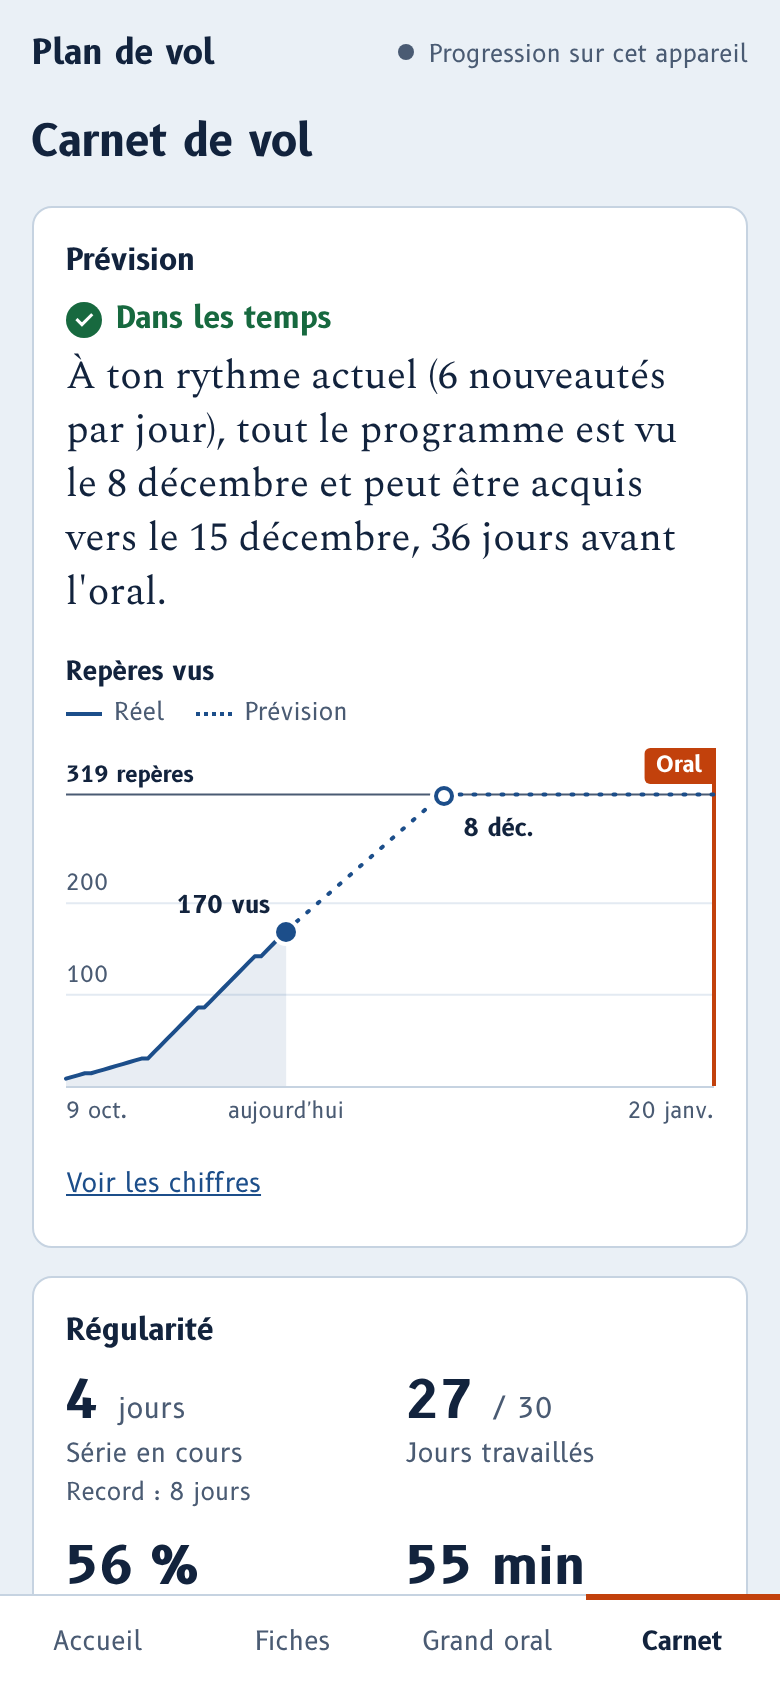
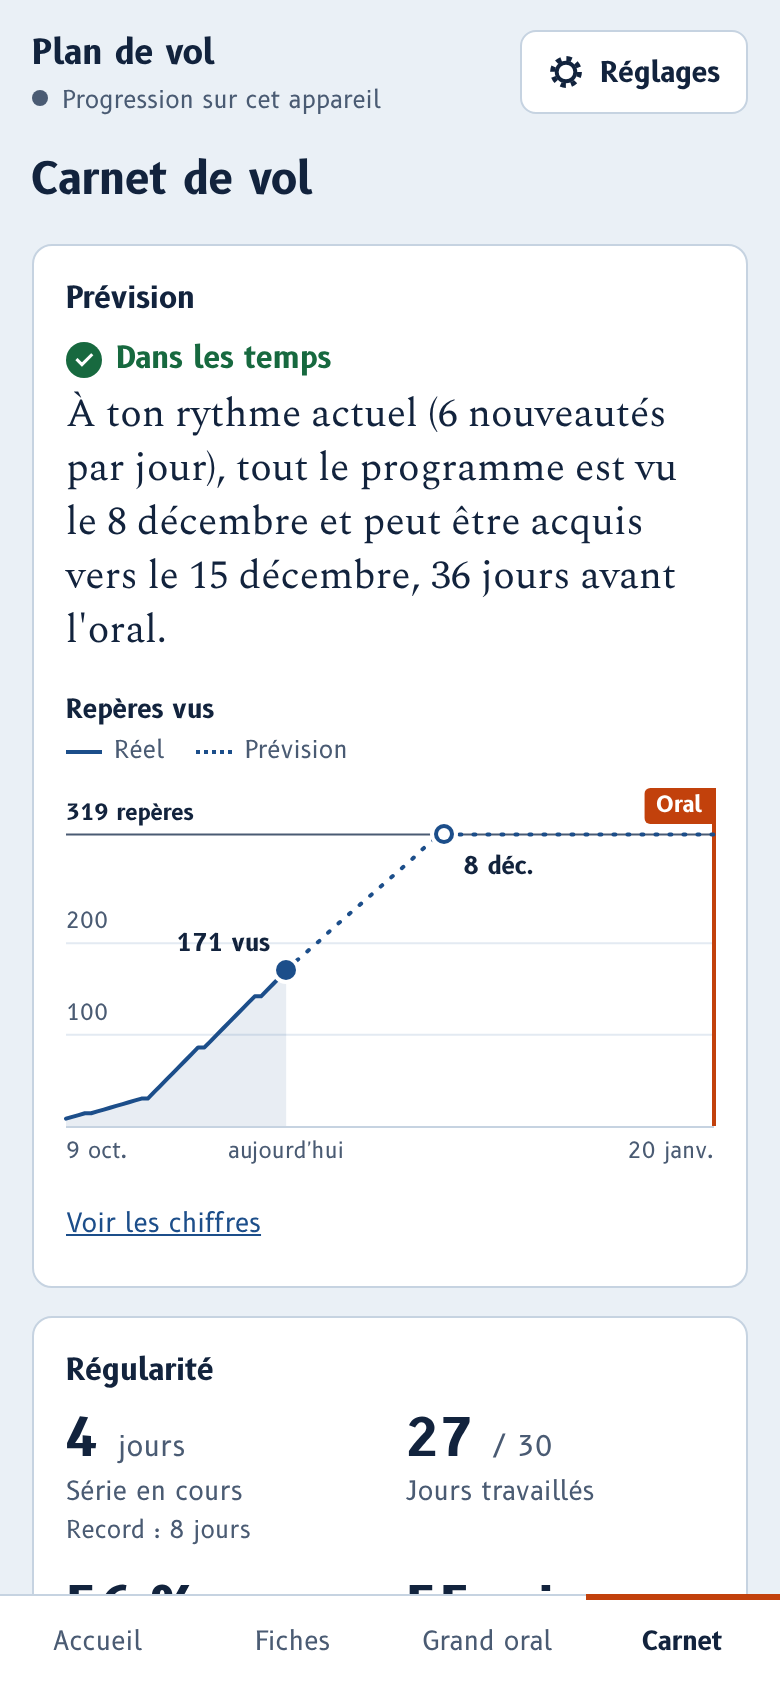
Version 1.3.0 : synchronisation par code en service, bouton Réglages, version visible
- config.js désigne la base qui garde les progressions chiffrées.
- En-tête : bouton « Réglages » explicite ; l'état de synchronisation passe sous le nom.
- Réglages : version installée, « Rechercher une mise à jour », raison en clair
  quand la synchronisation par code s'interrompt.
- L'accueil annonce la version après une mise à jour.
- Les tests n'appellent jamais le service réel.

Claude-Session: https://claude.ai/code/session_01CJPzr9oJVRXGoGWvM5jtrg

diff --git a/app.js b/app.js
@@ -6,7 +6,7 @@
   var LS = 'pdv.progression.v1';
   /* Dépôt qui reçoit les signalements d'erreur. À changer seulement si tu maintiens ta propre version des fiches. */
   var DEPOT = DATA.depot || 'JealousElf/plan-de-vol';
-  var VERSION_APP = '13 novembre 2026';
+  var VERSION_APP = '1.3.0', DATE_APP = '13 novembre 2026';
   var JOUR = 86400000;
   var IV = [0, 1, 2, 4, 8, 16, 32];
   var MOIS = ['janvier', 'février', 'mars', 'avril', 'mai', 'juin', 'juillet', 'août', 'septembre', 'octobre', 'novembre', 'décembre'];
@@ -163,12 +163,23 @@
       etat = s;
       var el = document.getElementById('sync'); if (el) { el.textContent = LIB[s]; el.setAttribute('data-s', s); }
       var d = document.getElementById('sync-detail'); if (d) d.textContent = LIB[s];
+      var m = document.getElementById('sync-motif'); if (m) m.textContent = raison();
+    }
+    /* En clair, pourquoi la synchronisation par code est interrompue (vide si tout va bien). */
+    function raison() {
+      if (etat !== 'off' || !motif) return '';
+      if (motif === '401' || motif === '403') return 'Le service refuse l\'accès : les règles de la base ne sont pas celles du guide.';
+      if (motif === '404') return 'Le service est introuvable : l\'adresse indiquée dans config.js n\'est pas la bonne.';
+      if (motif === 'format') return 'La copie en ligne vient d\'une version plus récente de l\'application : mets cet appareil à jour.';
+      if (motif === 'cle') return 'La copie en ligne est illisible avec ce code.';
+      if (motif === 'reseau') return 'Le service ne répond pas. Vérifie ta connexion : un nouvel essai partira à ta prochaine réponse.';
+      return 'Le service a répondu par une erreur (' + motif + '). Un nouvel essai partira à ta prochaine réponse.';
     }
     /* Hors de Claude, deux façons de relier ses appareils. Par code : la progression, chiffrée ici, part dans le service indiqué
        par config.js (git = { code, id, k, vu }). Par jeton : elle vit dans un gist privé du compte GitHub (git = { token, gist }). */
     var API = 'https://api.github.com', FICHIER = 'plan-de-vol-progression.json';
     var CODE = DATA.synchro, BASE = CODE && CODE.disponible() && /^https:\/\//.test(DATA.carnets || '') ? DATA.carnets : '';
-    var git = lireCfg(), enVol = false, encore = false, dernier = 0, ecoute = false;
+    var git = lireCfg(), enVol = false, encore = false, dernier = 0, ecoute = false, motif = '';
     function lireCfg() {
       try {
         var c = JSON.parse(window.localStorage.getItem(CFG) || 'null');
@@ -252,13 +263,14 @@
       }).then(function () {
         enVol = false;
         if (git !== moi) return;
-        dernier = Date.now(); dire('ok');
+        motif = ''; dernier = Date.now(); dire('ok');
         if (encore || sale) planifier();
       }).catch(function (e) {
         enVol = false;
         if (git !== moi) return;
         var s = e && e.status;
         sale = true;
+        motif = moi.code ? String(s || (e && e.name === 'OperationError' ? 'cle' : 'reseau')) : '';
         if (!moi.code && (s === 401 || s === 403)) dire('refus');
         else dire(window.navigator.onLine === false ? 'hors' : 'off');
       });
@@ -359,7 +371,7 @@
         }).catch(function () { /* pas de packs distants */ });
       } catch (e) { /* idem */ }
     }
-    return { init: init, pousser: pousser, vite: vite, etat: function () { return etat; }, activer: activer, relier: relier, couper: couper,
+    return { init: init, pousser: pousser, vite: vite, etat: function () { return etat; }, raison: raison, activer: activer, relier: relier, couper: couper,
       git: function () { return !!(git && git.token); },                 // relié par jeton GitHub
       code: function () { return git && git.code ? git.code : ''; },    // relié par code : le code, sinon ''
       parCode: function () { return !!BASE; } };                         // la synchronisation par code est-elle proposée ici ?
@@ -727,7 +739,9 @@
   function accueil() {
     var b = bilan(tous()), plan = planJour(), jr = joursRestants(), premiere = !Object.keys(P.cards).length && !P.diag;
     var pa = b.n ? 100 * b.acquis / b.n : 0, pc = b.n ? 100 * (b.acquis + b.cours) / b.n : 0;
-    var h = '<section class="cols vaste"><div class="pile"><div class="bloc"><h1 class="page-t">' + titreAccueil(jr) + '</h1>';
+    var h = '<section class="cols vaste"><div class="pile">';
+    if (S.msg) { h += '<p class="bravo" role="status">' + esc(S.msg) + '</p>'; S.msg = null; }
+    h += '<div class="bloc"><h1 class="page-t">' + titreAccueil(jr) + '</h1>';
     h += '<div class="piste espace' + (jr !== null && jr > 0 ? '' : ' sans-num') + '" role="img" aria-label="' + b.acquis + ' repères acquis, ' + b.cours + ' en cours, ' + b.neuf + ' à découvrir">' +
       '<span class="encours" style="width:' + pc.toFixed(1) + '%"></span><span class="acquis" style="width:' + pa.toFixed(1) + '%"></span>' +
       '<span class="seuil"></span><span class="axe"></span><span class="numero">' + (jr !== null && jr > 0 ? 'J-' + jr : '') + '</span></div>';
@@ -1281,7 +1295,7 @@
       } else {
         h += '<div class="rangee espace"><button class="btn" data-a="code-copier">Copier le code</button><button class="btn" data-a="couper-oui">Ne plus synchroniser cet appareil</button></div>';
       }
-      h += '<p class="note espace" id="code-msg" role="status"></p>';
+      h += '<p class="note espace" id="sync-motif" role="status">' + esc(Sync.raison()) + '</p><p class="note" id="code-msg" role="status"></p>';
     } else if (Sync.git()) {
       h += '<p class="note espace">Ta progression est enregistrée dans un fichier privé de ton compte GitHub. Elle suit sur chaque appareil où tu as collé le même jeton. Si GitHub refuse le jeton, arrête la synchronisation puis colle-en un nouveau.</p>' +
         '<button class="btn espace" data-a="sync-couper">Arrêter la synchronisation sur cet appareil</button>';
@@ -1298,7 +1312,8 @@
       h += '<p class="note espace">Ta progression est gardée sur cet appareil. Pour la retrouver sur ton téléphone et ton ordinateur, colle le même jeton GitHub sur chacun.</p>' + parJeton;
     }
     h += '</div>';
-    if (!CHEZ_CLAUDE) h += '<div class="bloc"><h2>Hors connexion</h2><p><b id="hors-detail">' + LIB_HORS[HORS.etat] + '</b></p><p class="note espace">Une fois la page ajoutée à l\'écran d\'accueil et ouverte une première fois avec du réseau, tout le contenu reste disponible sans connexion. Pour le vérifier : passe en mode avion, ferme l\'application, puis rouvre-la.</p></div>';
+    if (!CHEZ_CLAUDE) h += '<div class="bloc"><h2>Hors connexion</h2><p><b id="hors-detail">' + LIB_HORS[HORS.etat] + '</b></p><p class="note espace">Une fois la page ajoutée à l\'écran d\'accueil et ouverte une première fois avec du réseau, tout le contenu reste disponible sans connexion. Pour le vérifier : passe en mode avion, ferme l\'application, puis rouvre-la.</p>' +
+      '<p class="espace">Version installée : <b id="version">' + VERSION_APP + '</b></p><button class="btn espace" data-a="maj">Rechercher une mise à jour</button><p class="note espace" id="maj-msg" role="status"></p></div>';
     var sig = Object.keys(P.flags).filter(signale).filter(function (id) { return FACTS[id]; });
     h += '<div class="bloc"><h2>Fiches signalées</h2>' + (sig.length ? '<ul class="rates">' + sig.map(function (id) {
       return '<li><span class="d">' + esc(FACTS[id].d || FACTS[id].g || '') + '</span><span>' + esc(FACTS[id].t) + '</span></li>';
@@ -1308,7 +1323,7 @@
     if (S.raz) h += '<p class="alerte">Toute la progression sera effacée, sur tous tes appareils.</p><div class="rangee espace"><button class="btn danger" data-a="raz-oui">Effacer ma progression</button><button class="btn" data-a="raz-non">Annuler</button></div>';
     else h += '<button class="btn danger" data-a="raz">Effacer ma progression</button>';
     h += '</div><div class="bloc"><h2>À propos</h2><p class="note">Plan de vol est un projet libre et indépendant, sans lien avec le ministère des Armées ni avec une école. Les fiches ont été rédigées avec l\'aide d\'une IA ; les faits d\'actualité ont été recoupés en ligne à la date indiquée. Une erreur reste possible : signale-la.</p>' +
-      '<p class="note espace">Code sous licence MIT, fiches sous licence CC BY-SA 4.0. Version du ' + VERSION_APP + '.</p>' +
+      '<p class="note espace">Code sous licence MIT, fiches sous licence CC BY-SA 4.0. Version ' + VERSION_APP + ' du ' + DATE_APP + '.</p>' +
       '<a class="lien" href="https://github.com/' + esc(DEPOT) + '" target="_blank" rel="noopener">Code source, signalements et contributions</a>';
     return h + '</div></section>';
   }
@@ -1327,6 +1342,8 @@
     for (var i = 0; i < liens.length; i++) {
       if (!focus && liens[i].getAttribute('href') === '#' + p) liens[i].setAttribute('aria-current', 'page'); else liens[i].removeAttribute('aria-current');
     }
+    var br = document.getElementById('vers-reglages');
+    if (br) { if (!focus && p === 'reglages') br.setAttribute('aria-current', 'page'); else br.removeAttribute('aria-current'); }
     G.cacher();
     app.classList.toggle('arrive', !!S.haut);
     app.innerHTML = h;
@@ -1422,6 +1439,19 @@
       Sync.activer(v); rendre();
     },
     'sync-couper': function () { S.couper = false; Sync.couper(); rendre(); },
+    maj: function (b) {
+      var sw = window.navigator.serviceWorker, dit = function (t) { var m = document.getElementById('maj-msg'); if (m) m.textContent = t; };
+      if (!sw) return dit('Cet appareil ne gère pas la mise à jour automatique : ferme l\'application et rouvre-la.');
+      if (window.navigator.onLine === false) return dit('Pas de réseau : impossible de vérifier pour l\'instant.');
+      b.disabled = true; dit('Vérification…');
+      sw.getRegistration().then(function (r) {
+        if (!r) throw new Error('aucun service worker');
+        return r.update().then(function () { return r; });
+      }).then(function (r) {
+        b.disabled = false;
+        dit(r.installing || r.waiting ? 'Nouvelle version trouvée : l\'application se recharge dans un instant.' : 'L\'application est à jour (version ' + VERSION_APP + ').');
+      }, function () { b.disabled = false; dit('Vérification impossible pour l\'instant. Ferme l\'application et rouvre-la.'); });
+    },
     'couper-oui': function () { S.couper = true; rendre(); },
     'couper-non': function () { S.couper = false; rendre(); },
     'code-creer': function (b) {
@@ -1502,6 +1532,11 @@
     tirer: tirer, parTheme: parTheme, packValide: packValide, prevoir: prevoir, faits: function () { return FACTS; }, seance: function () { return S.ses; } };
   appliquerTheme(themeChoisi());
   indexer();
+  (function () {   // après une mise à jour, l'accueil annonce la version installée
+    var avant = null;
+    try { avant = window.localStorage.getItem('pdv.version'); window.localStorage.setItem('pdv.version', VERSION_APP); } catch (e) { return; }
+    if (avant ? avant !== VERSION_APP : Object.keys(P.cards).length > 0) S.msg = 'Application mise à jour : version ' + VERSION_APP + '.';
+  })();
   S.haut = true;
   rendre();
   G.init();

diff --git a/styles.css b/styles.css
@@ -66,7 +66,11 @@ h1, h2, h3 { text-wrap: balance; }
 body.focus .wrap { padding-bottom: 32px; }
 .top { display: flex; align-items: center; justify-content: space-between; gap: 12px; padding: 14px 0 12px; }
 .brand { font-weight: 700; font-size: 17px; color: var(--encre); text-decoration: none; }
-.sync { display: inline-flex; align-items: center; gap: 7px; font-size: 12px; color: var(--encre-2); text-decoration: none; text-align: right; }
+.tete { display: flex; flex-direction: column; align-items: flex-start; gap: 2px; min-width: 0; }
+.sync { display: inline-flex; align-items: center; gap: 7px; font-size: 12px; color: var(--encre-2); text-decoration: none; }
+.vers-reglages { flex: none; display: inline-flex; align-items: center; gap: 8px; min-height: 42px; padding: 0 13px; border: 1.5px solid var(--trait); border-radius: 8px; background: var(--papier); color: var(--encre); font-size: 14px; font-weight: 700; text-decoration: none; }
+.vers-reglages:hover, .vers-reglages[aria-current="page"] { border-color: var(--encre-2); }
+body.focus .vers-reglages { display: none; }
 .sync::before { content: ""; flex: none; width: 8px; height: 8px; border-radius: 50%; background: var(--encre-2); }
 .sync[data-s="ok"]::before { background: var(--ok); }
 .sync[data-s="sync"]::before, .sync[data-s="wait"]::before, .sync[data-s="hors"]::before { background: var(--attn); }
@@ -465,7 +469,9 @@ button.mr-nom:hover { text-decoration: underline; }
   .top { flex-wrap: nowrap; justify-content: flex-start; gap: 30px; padding: 20px 0; }
   .tabs { order: 0; flex: 0 1 auto; justify-content: flex-start; gap: 6px; margin: 0; border: 0; border-radius: 0; background: none; overflow: visible; }
   .tabs a { flex: none; padding: 8px 10px 6px; font-size: 14px; }
-  .sync { margin-left: auto; }
+  .tete { display: contents; }
+  .sync { order: 2; margin-left: auto; }
+  .vers-reglages { order: 3; }
   #app > section { max-width: 660px; margin-left: auto; margin-right: auto; }
   #app > section.vaste { max-width: none; }
   .cols { display: grid; grid-template-columns: minmax(0, 1.18fr) minmax(0, 1fr); gap: 16px 20px; align-items: start; }

diff --git a/index.html b/index.html
@@ -22,14 +22,17 @@
 <body>
 <div class="wrap">
   <header class="top">
-    <a class="brand" href="#accueil">Plan de vol</a>
+    <div class="tete">
+      <a class="brand" href="#accueil">Plan de vol</a>
+      <a class="sync" id="sync" href="#reglages" data-s="local">Progression sur cet appareil</a>
+    </div>
     <nav class="tabs" id="nav" aria-label="Rubriques">
       <a href="#accueil">Accueil</a>
       <a href="#fiches">Fiches</a>
       <a href="#oral">Grand oral</a>
       <a href="#carnet">Carnet</a>
     </nav>
-    <a class="sync" id="sync" href="#reglages" data-s="local">Progression sur cet appareil</a>
+    <a class="vers-reglages" id="vers-reglages" href="#reglages"><svg viewBox="0 0 24 24" width="18" height="18" aria-hidden="true" focusable="false"><circle cx="12" cy="12" r="9" fill="none" stroke="currentColor" stroke-width="3.2" stroke-dasharray="3.534 3.534"/><circle cx="12" cy="12" r="6.2" fill="none" stroke="currentColor" stroke-width="2.6"/></svg>Réglages</a>
   </header>
   <main id="app"></main>
 </div>

diff --git a/config.js b/config.js
@@ -6,7 +6,7 @@
   /* Synchronisation par code : adresse de la base qui garde les progressions chiffrées
      (une base Firebase Realtime Database, par exemple https://mon-projet-default-rtdb.europe-west1.firebasedatabase.app).
      Vide : la synchronisation par code n'est pas proposée. Mise en place en dix minutes : docs/synchronisation.md */
-  DATA.carnets = '';
+  DATA.carnets = 'https://plan-de-vol-6ae7f-default-rtdb.europe-west1.firebasedatabase.app';
 
   /* Dépôt GitHub qui reçoit les signalements d'erreur sur les fiches. */
   DATA.depot = 'JealousElf/plan-de-vol';

diff --git a/sw.js b/sw.js
@@ -1,5 +1,5 @@
 /* Plan de vol : tout le contenu est mis en cache à l'installation, puis servi sans réseau. */
-var VERSION = "pdv-55cfb23dace0";
+var VERSION = "pdv-4d29498078aa";
 var FICHIERS = [
   "index.html",
   "styles.css",

diff --git a/CHANGELOG.md b/CHANGELOG.md
@@ -1,5 +1,12 @@
 # Journal des versions
 
+## 1.3.0, 13 novembre 2026
+
+- La synchronisation par code est en service sur le site : Réglages, « Créer un code de synchronisation ».
+- Bouton « Réglages » explicite dans l'en-tête ; l'état de synchronisation reste affiché sous le nom de l'application.
+- Réglages affiche la version installée et propose « Rechercher une mise à jour » ; après une mise à jour, l'accueil annonce la nouvelle version.
+- Si la synchronisation par code s'interrompt, Réglages en donne la raison en clair.
+
 ## 1.2.0, 13 novembre 2026
 
 - Synchronisation par code : un code de seize caractères, créé sur un appareil et tapé une fois sur l'autre, remplace le jeton GitHub. Ni compte ni mot de passe.
